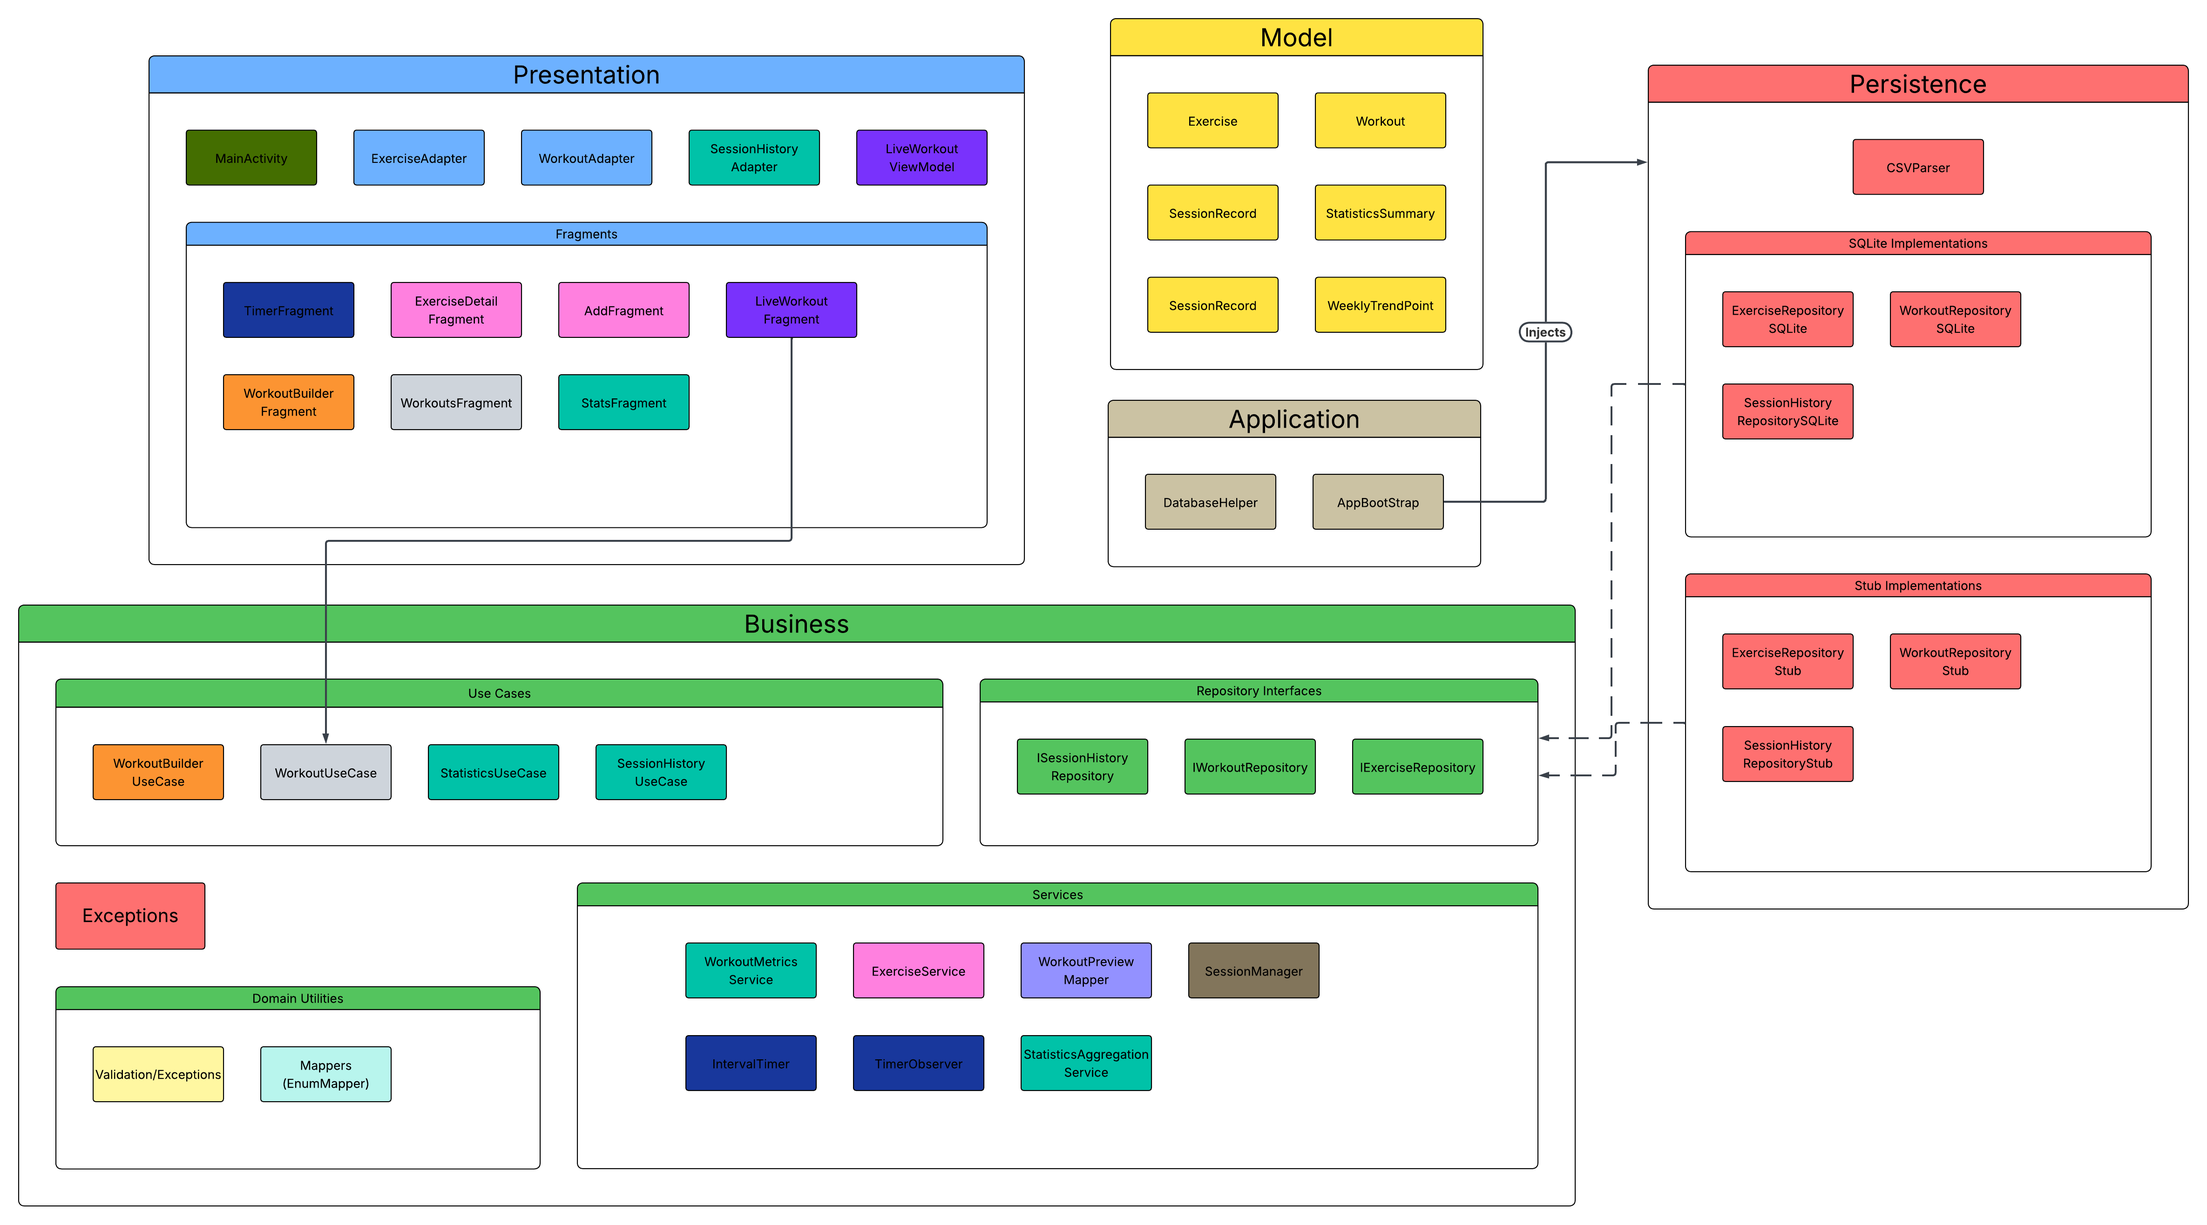
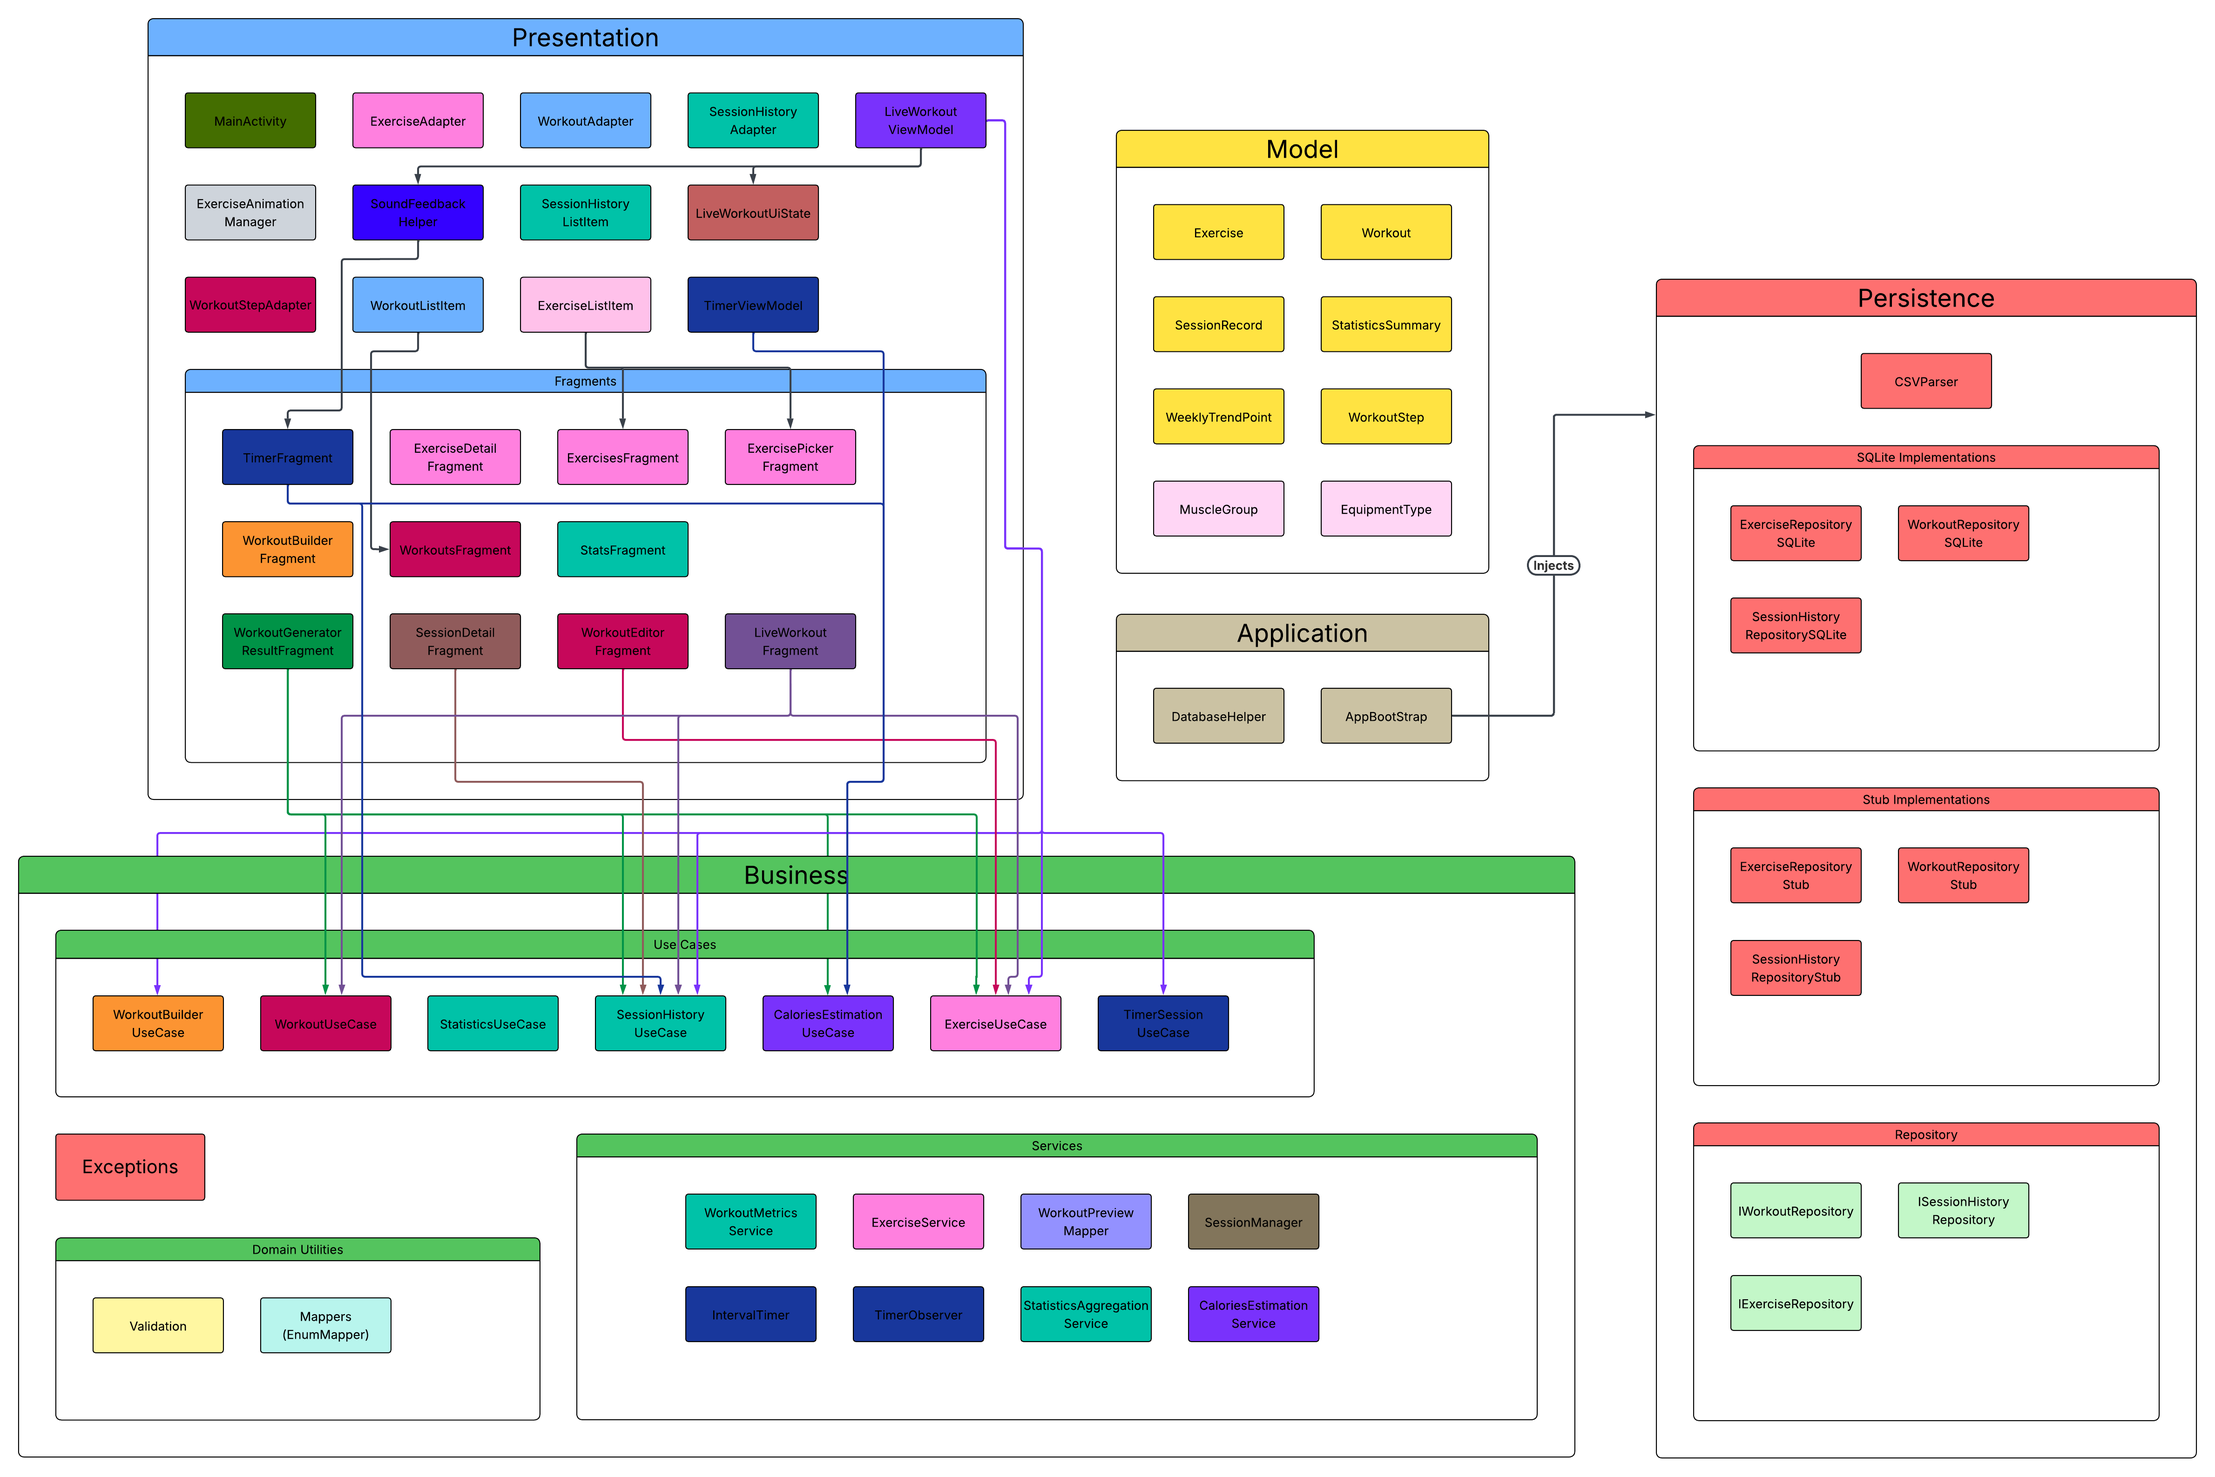
Updating ARCHITECTURE.md and Architeture Diagram

diff --git a/ARCHITECTURE.md b/ARCHITECTURE.md
@@ -16,106 +16,99 @@
 
 - **[`MainActivity`](app/src/main/java/com/example/exergen/presentation/MainActivity.java)**
   - Entry point of the app
-  - Acts as the composition root for presentation dependency injection
-  - User input handling
-- **[`AddFragment`](app/src/main/java/com/example/exergen/presentation/AddFragment.java)**
-  - Displays a list of all exercises available in the library
-- **[`StatsFragment`](app/src/main/java/com/example/exergen/presentation/StatsFragment.java)**
-  - Displays personal workout statistics and trends
-- **[`TimerFragment`](app/src/main/java/com/example/exergen/presentation/TimerFragment.java)**
-  - Simple standalone timer for work/rest intervals
-- **[`WorkoutsFragment`](app/src/main/java/com/example/exergen/presentation/WorkoutsFragment.java)**
-  - Displays a list of user's saved workouts and allows viewing details or deleting them
+  - Hosts the bottom navigation and manages fragment switching
+- **[`ExercisesFragment`](app/src/main/java/com/example/exergen/presentation/ExercisesFragment.java)**
+  - Displays the searchable and filterable exercise library
 - **[`ExerciseDetailFragment`](app/src/main/java/com/example/exergen/presentation/ExerciseDetailFragment.java)**
-  - Displays detailed information about a specific exercise (instructions, equipment, etc.)
+  - Shows comprehensive info for an exercise, including description and images
+- **[`WorkoutsFragment`](app/src/main/java/com/example/exergen/presentation/WorkoutsFragment.java)**
+  - Lists saved workout routines for selection
+- **[`WorkoutDetailFragment`](app/src/main/java/com/example/exergen/presentation/WorkoutDetailFragment.java)**
+  - Detailed view of a saved workout routine and its exercises
+- **[`WorkoutEditorFragment`](app/src/main/java/com/example/exergen/presentation/WorkoutEditorFragment.java)**
+  - Interactive editor to create or modify workout routines and steps
+- **[`WorkoutBuilderFragment`](app/src/main/java/com/example/exergen/presentation/WorkoutBuilderFragment.java)**
+  - Form interface to input constraints for workout generation
+- **[`WorkoutGeneratorResultFragment`](app/src/main/java/com/example/exergen/presentation/WorkoutGeneratorResultFragment.java)**
+  - Displays and allows saving of a generated workout routine
 - **[`LiveWorkoutFragment`](app/src/main/java/com/example/exergen/presentation/LiveWorkoutFragment.java)**
-  - Interactive screen that guides the user through an active workout session by observing `LiveWorkoutViewModel`
-- **[`TimerViewModel`](app/src/main/java/com/example/exergen/presentation/TimerViewModel.java)** / **[`LiveWorkoutViewModel`](app/src/main/java/com/example/exergen/presentation/LiveWorkoutViewModel.java)**
-  - Own timer/session coordination and expose observable UI state to fragments
-- **[`LiveWorkoutUiState`](app/src/main/java/com/example/exergen/presentation/LiveWorkoutUiState.java)**
-  - Presentation state model for setup/active/finished live workout screen transitions
-- **[`ExerciseAnimationManager`](app/src/main/java/com/example/exergen/presentation/ExerciseAnimationManager.java)** / **[`SoundFeedbackHelper`](app/src/main/java/com/example/exergen/presentation/SoundFeedbackHelper.java)**
-  - Shared helpers that centralize animation frame loading and audio cues
-- **[`ExerciseAdapter`](app/src/main/java/com/example/exergen/presentation/ExerciseAdapter.java)**
-  - RecyclerView adapter that binds pre-mapped `ExerciseListItem` rows
-- **[`WorkoutAdapter`](app/src/main/java/com/example/exergen/presentation/WorkoutAdapter.java)**
-  - RecyclerView adapter that binds pre-mapped `WorkoutListItem` rows
-- **[`SessionHistoryAdapter`](app/src/main/java/com/example/exergen/presentation/SessionHistoryAdapter.java)**
-  - RecyclerView adapter that binds pre-mapped `SessionHistoryListItem` rows
-- **[`ExerciseListItem`](app/src/main/java/com/example/exergen/presentation/ExerciseListItem.java)** / **[`WorkoutListItem`](app/src/main/java/com/example/exergen/presentation/WorkoutListItem.java)** / **[`SessionHistoryListItem`](app/src/main/java/com/example/exergen/presentation/SessionHistoryListItem.java)**
-  - Presentation row models used to keep formatting/mapping out of adapters
+  - Interactive screen that guides the user through an active workout session
+- **[`StatsFragment`](app/src/main/java/com/example/exergen/presentation/StatsFragment.java)**
+  - Visualization of user performance history and trends
+- **[`SessionDetailFragment`](app/src/main/java/com/example/exergen/presentation/SessionDetailFragment.java)**
+  - Bottom sheet showing metrics for a specific completed session
+- **[`TimerFragment`](app/src/main/java/com/example/exergen/presentation/TimerFragment.java)**
+  - Quick standalone timer for interval training
+- **[`LiveWorkoutViewModel`](app/src/main/java/com/example/exergen/presentation/LiveWorkoutViewModel.java)** / **[`TimerViewModel`](app/src/main/java/com/example/exergen/presentation/TimerViewModel.java)**
+  - Coordinate session state and timing logic, surviving configuration changes
+- **[`ExerciseAnimationManager`](app/src/main/java/com/example/exergen/presentation/ExerciseAnimationManager.java)**
+  - Handles frame-by-frame animation loading for exercise demonstrations
+- **[`SoundFeedbackHelper`](app/src/main/java/com/example/exergen/presentation/SoundFeedbackHelper.java)**
+  - Centralizes audio cues for timer ticks and phase transitions
+- **Adapters** (`ExerciseAdapter`, `WorkoutAdapter`, `SessionHistoryAdapter`, `WorkoutStepAdapter`)
+  - Bind domain and presentation models to RecyclerView components
 
 ### Business Layer
 
 #### `business/usecase/`
 
 - **[`WorkoutUseCase`](app/src/main/java/com/example/exergen/business/usecase/WorkoutUseCase.java)**
-  - Coordinates operations related to workout management (saving, loading, deleting)
-- **[`StatisticsUseCase`](app/src/main/java/com/example/exergen/business/usecase/StatisticsUseCase.java)**
-  - Provides the business logic for calculating and retrieving user statistics
-- **[`SessionHistoryUseCase`](app/src/main/java/com/example/exergen/business/usecase/SessionHistoryUseCase.java)**
-  - Manages the recording and retrieval of completed workout sessions
+  - High-level operations for workout routine management
 - **[`WorkoutBuilderUseCase`](app/src/main/java/com/example/exergen/business/usecase/WorkoutBuilderUseCase.java)**
-  - Logic for generating or building workouts based on specific criteria
-- **[`ExerciseUseCase`](app/src/main/java/com/example/exergen/business/usecase/ExerciseUseCase.java)**
-  - Use case entry point for exercise read operations used by presentation
+  - Orchestrates the automated generation of workouts based on constraints
+- **[`SessionHistoryUseCase`](app/src/main/java/com/example/exergen/business/usecase/SessionHistoryUseCase.java)**
+  - Logic for logging and retrieving completed workout session records
+- **[`StatisticsUseCase`](app/src/main/java/com/example/exergen/business/usecase/StatisticsUseCase.java)**
+  - Prepares aggregated data for the statistics dashboard
+- **[`CaloriesEstimationUseCase`](app/src/main/java/com/example/exergen/business/usecase/CaloriesEstimationUseCase.java)**
+  - Domain-specific logic for calculating calorie burn during sessions
 - **[`TimerSessionUseCase`](app/src/main/java/com/example/exergen/business/usecase/TimerSessionUseCase.java)**
-  - Business abstraction that encapsulates timer session lifecycle and observer callbacks
-- **[`TimerMode`](app/src/main/java/com/example/exergen/business/usecase/TimerMode.java)** / **[`TimerSessionObserver`](app/src/main/java/com/example/exergen/business/usecase/TimerSessionObserver.java)**
-  - Use-case level timer state contract consumed by presentation viewmodels
+  - Encapsulates the lifecycle and state transitions of an active timer session
 
 #### `business/service/`
 
 - **[`ExerciseService`](app/src/main/java/com/example/exergen/business/service/ExerciseService.java)**
-  - High-level service for exercise library operations (filtering, searching)
+  - Core business rules for searching and filtering the exercise library
+- **[`ExerciseConstraintMatcher`](app/src/main/java/com/example/exergen/business/service/ExerciseConstraintMatcher.java)**
+  - Scoring and matching logic used during workout generation
 - **[`IntervalTimer`](app/src/main/java/com/example/exergen/business/service/IntervalTimer.java)**
-  - Core countdown logic for work/rest interval sets
-- **[`TimerObserver`](app/src/main/java/com/example/exergen/business/service/TimerObserver.java)**
-  - Interface for receiving ticks and phase changes from a timer
+  - Engine for work/rest countdowns and phase switching
 - **[`SessionManager`](app/src/main/java/com/example/exergen/business/service/SessionManager.java)**
-  - Tracks progress and state during an active workout session
+  - Tracks the current step and progress through a workout routine
 - **[`WorkoutMetricsService`](app/src/main/java/com/example/exergen/business/service/WorkoutMetricsService.java)**
-  - Utility for calculating workout-related metrics (total duration, etc.)
+  - Calculates routine-level metadata like total duration
+- **[`CaloriesEstimationService`](app/src/main/java/com/example/exergen/business/service/CaloriesEstimationService.java)**
+  - Mathematical implementation for intensity-based energy expenditure
 - **[`StatisticsAggregationService`](app/src/main/java/com/example/exergen/business/service/StatisticsAggregationService.java)**
-  - Aggregates raw session data into meaningful summary statistics
-- **[`EnumMapper`](app/src/main/java/com/example/exergen/business/service/EnumMapper.java)**
-  - Helper for mapping between domain enums and UI-friendly strings/indices
-  
+  - Processes lists of session records into summaries and trend points
+
 ### Persistence Layer
 
-- **[`IExerciseRepository`](app/src/main/java/com/example/exergen/persistence/repository/IExerciseRepository.java)** / **[`IWorkoutRepository`](app/src/main/java/com/example/exergen/persistence/repository/IWorkoutRepository.java)** / **[`ISessionHistoryRepository`](app/src/main/java/com/example/exergen/persistence/repository/ISessionHistoryRepository.java)**
-    - Persistence-facing repository interfaces consumed by business layer use cases/services
-- **[`ExerciseRepositoryStub`](app/src/main/java/com/example/exergen/persistence/ExerciseRepositoryStub.java)**
-    - In-memory implementation of the exercise repository
-- **[`WorkoutRepositoryStub`](app/src/main/java/com/example/exergen/persistence/WorkoutRepositoryStub.java)**
-    - In-memory implementation of the workout repository
-- **[`SessionHistoryRepositoryStub`](app/src/main/java/com/example/exergen/persistence/SessionHistoryRepositoryStub.java)**
-    - In-memory implementation of the session history repository
-- **[`ExerciseRepositorySQLite`](app/src/main/java/com/example/exergen/persistence/ExerciseRepositorySQLite.java)**
-    - SQLite implementation of the exercise repository for persistent storage
-- **[`WorkoutRepositorySQLite`](app/src/main/java/com/example/exergen/persistence/WorkoutRepositorySQLite.java)**
-    - SQLite implementation of the workout repository for persistent storage
-- **[`SessionHistoryRepositorySQLite`](app/src/main/java/com/example/exergen/persistence/SessionHistoryRepositorySQLite.java)**
-    - SQLite implementation of the session history repository for persistent storage
+- **Repository Interfaces** (`IExerciseRepository`, `IWorkoutRepository`, `ISessionHistoryRepository`)
+  - Define the data access contracts, decoupling business logic from implementation
+- **SQLite Implementations** (`ExerciseRepositorySQLite`, `WorkoutRepositorySQLite`, `SessionHistoryRepositorySQLite`)
+  - Provide durable storage using Android's native SQLite database
+- **Stub Implementations** (`ExerciseRepositoryStub`, `WorkoutRepositoryStub`, `SessionHistoryRepositoryStub`)
+  - Lightweight, in-memory repositories used for fast unit testing and Iteration 1 development
+- **[`CSVParser`](app/src/main/java/com/example/exergen/persistence/CSVParser.java)**
+  - Utility to seed the database from raw exercise data files
 
 ### Application
 
 - **[`AppBootstrap`](app/src/main/java/com/example/exergen/application/AppBootstrap.java)**
-  - Central service locator and configuration hub for dependency injection
+  - Central dependency injection container that wires concrete persistence into business services
 
 ### Model
 
 - **[`Exercise`](app/src/main/java/com/example/exergen/model/Exercise.java)**
   - Domain model for an exercise (id, name, muscles, equipment, etc.)
 - **[`Workout`](app/src/main/java/com/example/exergen/model/Workout.java)**
-  - Domain model for a workout that stores `sets` and an immutable list of `WorkoutStep`
+  - Domain model for a routine, storing immutable steps and repetition count
 - **[`WorkoutStep`](app/src/main/java/com/example/exergen/model/WorkoutStep.java)**
-  - Domain model for a single workout step (`exerciseId`, `workSeconds`, `restSeconds`), replacing parallel lists
+  - Encapsulates a specific exercise ID and its corresponding work/rest timing
 - **[`SessionRecord`](app/src/main/java/com/example/exergen/model/SessionRecord.java)**
-  - Represents a completed workout session with timestamp, exercise count, and sets planned/completed
-- **[`StatisticsSummary`](app/src/main/java/com/example/exergen/model/StatisticsSummary.java)**
-  - Value object holding aggregated statistical data
-- **[`WeeklyTrendPoint`](app/src/main/java/com/example/exergen/model/WeeklyTrendPoint.java)**
-  - Data point for visualizing weekly workout trends
-- **[`EquipmentType`](app/src/main/java/com/example/exergen/model/EquipmentType.java)** / **[`MuscleGroup`](app/src/main/java/com/example/exergen/model/MuscleGroup.java)**
-  - Enums representing domain-specific categories
+  - Stores data about a completed workout (date, performance metrics, calories)
+- **[`MuscleGroup`](app/src/main/java/com/example/exergen/model/MuscleGroup.java)** / **[`EquipmentType`](app/src/main/java/com/example/exergen/model/EquipmentType.java)**
+  - Strongly-typed Enums representing domain categories and metadata
+- **[`StatisticsSummary`](app/src/main/java/com/example/exergen/model/StatisticsSummary.java)** / **[`WeeklyTrendPoint`](app/src/main/java/com/example/exergen/model/WeeklyTrendPoint.java)**
+  - Value objects designed to transport aggregated statistical data to the UI

diff --git a/Docs/RETROSPECTIVE.md b/Docs/RETROSPECTIVE.md
@@ -25,7 +25,7 @@ The refactoring of the EnumMapper and the centralization of mapping logic into d
 
 By shifting from a "silent failure" model to a "fail-fast" exception-handling strategy, we gained immediate visibility into data inconsistencies. Previously, invalid inputs would silently default to BODYWEIGHT, making data corruption difficult to detect until much later in the application's lifecycle. Now, mapping errors are caught at the point of entry, throwing explicit exceptions that pinpoint the exact source of the failure. This has drastically reduced the time spent debugging data-related issues and ensures that the system only operates on valid, high-integrity information.
 
-A final measurable improvement is our adherence to clean architecture principles, as verified by our project structure. Our model layer is now entirely "pure," with zero dependencies on the business or persistence layers. This independence is not just theoretical; it allows us to swap out our entire persistence implementation (moving from Stub repositories to SQLite) without changing a single line of code in our domain models or business logic. This high degree of modularity directly translates to increased developer velocity and a more resilient system.
+A final measurable improvement is our adherence to clean architecture principles, as verified by our project structure. Our model layer is now entirely "pure," with zero dependencies on the business or persistence layers. This independence allows us to swap out our entire persistence implementation (moving from Stub repositories to SQLite) without changing a single line of code in our domain models or business logic. This high degree of modularity directly translates to increased developer velocity and a more resilient system.
 
 ## Velocity Chart
 ![](Velocity-Chart.png)
